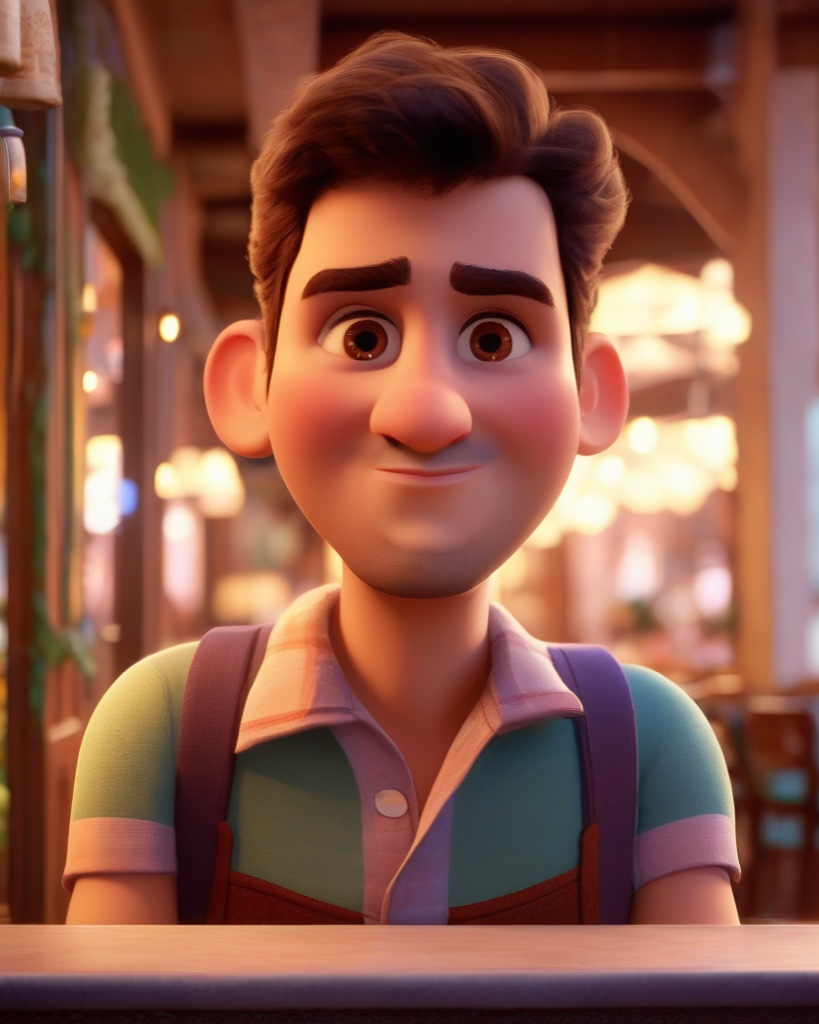
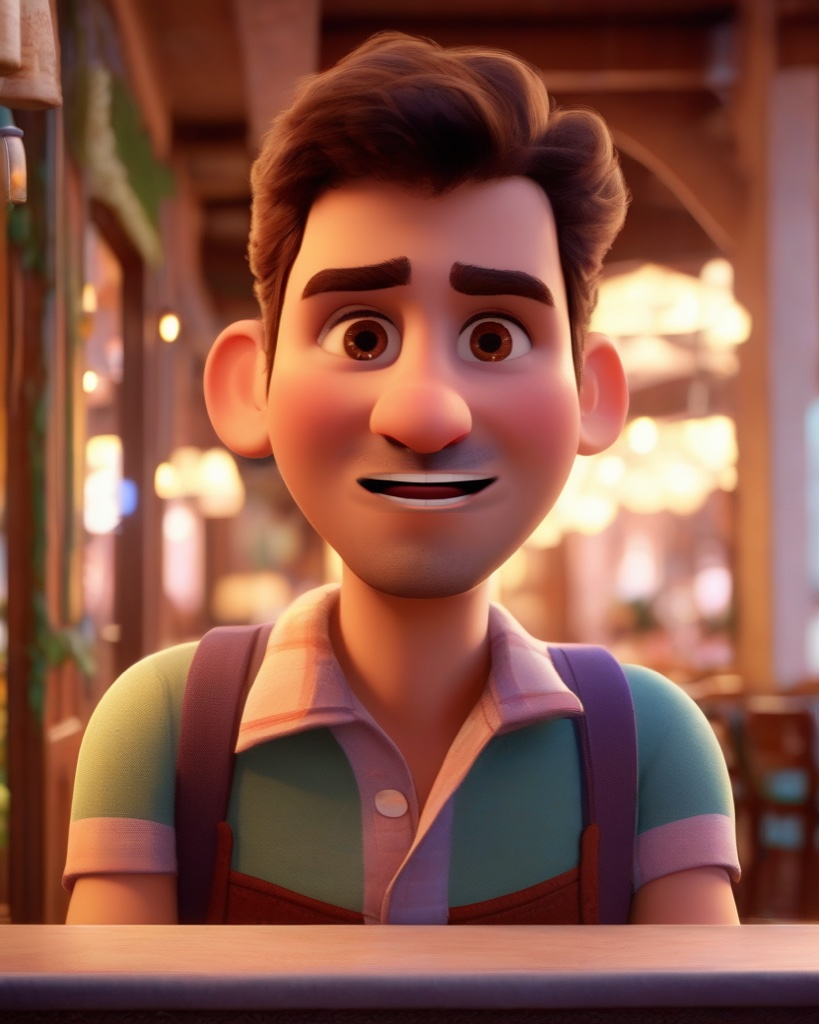
말하는 초상화 입 모양 자연스럽게: 섞지 않고 한 장씩 전환 + 적당히 벌린 입
- 원인(사용자 화면 기록 + 앱과 같은 계산의 프레임 합성으로 확인):
  반투명 교차로 입술이 이중으로 보이고 검은 큰 입이 콧수염 얼룩처럼 깔림, '아~' 큰 입이 말하는 시간의 1/3,
  Host는 입 주변 수염이 다시 그려져 턱에 밝은 사각형
- portrait.js: 닫힘/살짝/벌림을 히스테리시스·70ms 유지로 한 장씩 전환
- 입 이미지 교체: talk=적당히 벌린 입(윗니, 혀 X), talkS=그 입을 세로로 눌러 만든 살짝 벌린 입,
  Host는 달라진 부분만 합성해 수염 유지
- 도구: portrait-generate talkMid, derive-mouth.py(keep/squash), simulate-mouth.py(입 프레임 시트)

Changed region(s): [[0.4274, 0.4375, 0.6105, 0.5625]]

diff --git a/index.html b/index.html
@@ -15,7 +15,7 @@
     <!-- 웹폰트는 렌더링을 막지 않게 불러온다: 폰트 서버가 느리거나 막혀도 앱은 시스템 폰트로 바로 시작 -->
     <link rel="stylesheet" href="https://fonts.googleapis.com/css2?family=Plus+Jakarta+Sans:wght@500;600;700;800&display=swap" media="print" onload="this.media='all'">
     <link rel="stylesheet" href="https://cdn.jsdelivr.net/gh/orioncactus/pretendard@v1.3.9/dist/web/variable/pretendardvariable-dynamic-subset.min.css" media="print" onload="this.media='all'">
-    <link rel="stylesheet" href="css/app.css?v=202611211411">
+    <link rel="stylesheet" href="css/app.css?v=202611212333">
 </head>
 <body>
     <div class="aurora" aria-hidden="true"><i></i><i></i><i></i></div>
@@ -30,41 +30,41 @@
     <nav class="tabbar" aria-label="주요 메뉴"></nav>
 
     <!-- 챕터 데이터: 파일을 추가하면 여기에도 추가한다 (tools/validate-chapters.js가 누락을 검사) -->
-    <script src="js/data/chapters/01-cafe-order.js?v=202611211411"></script>
-    <script src="js/data/chapters/02-self-intro.js?v=202611211411"></script>
-    <script src="js/data/chapters/03-restaurant.js?v=202611211411"></script>
-    <script src="js/data/chapters/04-directions.js?v=202611211411"></script>
-    <script src="js/data/chapters/05-shopping.js?v=202611211411"></script>
-    <script src="js/data/chapters/06-hotel.js?v=202611211411"></script>
-    <script src="js/data/chapters/07-airport.js?v=202611211411"></script>
-    <script src="js/data/chapters/08-small-talk.js?v=202611211411"></script>
-    <script src="js/data/chapters/09-doctor.js?v=202611211411"></script>
-    <script src="js/data/chapters/10-phone-call.js?v=202611211411"></script>
-    <script src="js/data/chapters/11-making-plans.js?v=202611211411"></script>
-    <script src="js/data/chapters/12-job-interview.js?v=202611211411"></script>
-    <script src="js/data/chapters/13-meeting.js?v=202611211411"></script>
-    <script src="js/data/chapters/14-solving-problems.js?v=202611211411"></script>
+    <script src="js/data/chapters/01-cafe-order.js?v=202611212333"></script>
+    <script src="js/data/chapters/02-self-intro.js?v=202611212333"></script>
+    <script src="js/data/chapters/03-restaurant.js?v=202611212333"></script>
+    <script src="js/data/chapters/04-directions.js?v=202611212333"></script>
+    <script src="js/data/chapters/05-shopping.js?v=202611212333"></script>
+    <script src="js/data/chapters/06-hotel.js?v=202611212333"></script>
+    <script src="js/data/chapters/07-airport.js?v=202611212333"></script>
+    <script src="js/data/chapters/08-small-talk.js?v=202611212333"></script>
+    <script src="js/data/chapters/09-doctor.js?v=202611212333"></script>
+    <script src="js/data/chapters/10-phone-call.js?v=202611212333"></script>
+    <script src="js/data/chapters/11-making-plans.js?v=202611212333"></script>
+    <script src="js/data/chapters/12-job-interview.js?v=202611212333"></script>
+    <script src="js/data/chapters/13-meeting.js?v=202611212333"></script>
+    <script src="js/data/chapters/14-solving-problems.js?v=202611212333"></script>
 
-    <script src="js/data/cast.js?v=202611211411"></script>
+    <script src="js/data/cast.js?v=202611212333"></script>
     <!-- 원어민 녹음 목록 (tools/build-audio.py가 생성). 없으면 브라우저 음성으로 대체 -->
-    <script src="js/data/audio-manifest.js?v=202611211411"></script>
-    <script src="js/core/grader.js?v=202611211411"></script>
-    <script src="js/core/srs.js?v=202611211411"></script>
-    <script src="js/core/plan.js?v=202611211411"></script>
-    <script src="js/core/sync.js?v=202611211411"></script>
-    <script src="js/core/store.js?v=202611211411"></script>
-    <script src="js/core/speech.js?v=202611211411"></script>
-    <script src="js/core/lipsync.js?v=202611211411"></script>
-    <script src="js/app/ui.js?v=202611211411"></script>
-    <script src="js/app/actions.js?v=202611211411"></script>
-    <script src="js/app/sync-gist.js?v=202611211411"></script>
-    <script src="assets/avatars/avatars.js?v=202611211411"></script>
-    <script src="assets/portraits/portraits.js?v=202611211411"></script>
-    <script src="js/app/portrait.js?v=202611211411"></script>
-    <script src="js/app/avatar.js?v=202611211411"></script>
-    <script src="js/app/views-home.js?v=202611211411"></script>
-    <script src="js/app/views-learn.js?v=202611211411"></script>
-    <script src="js/app/views-care.js?v=202611211411"></script>
-    <script src="js/app/main.js?v=202611211411"></script>
+    <script src="js/data/audio-manifest.js?v=202611212333"></script>
+    <script src="js/core/grader.js?v=202611212333"></script>
+    <script src="js/core/srs.js?v=202611212333"></script>
+    <script src="js/core/plan.js?v=202611212333"></script>
+    <script src="js/core/sync.js?v=202611212333"></script>
+    <script src="js/core/store.js?v=202611212333"></script>
+    <script src="js/core/speech.js?v=202611212333"></script>
+    <script src="js/core/lipsync.js?v=202611212333"></script>
+    <script src="js/app/ui.js?v=202611212333"></script>
+    <script src="js/app/actions.js?v=202611212333"></script>
+    <script src="js/app/sync-gist.js?v=202611212333"></script>
+    <script src="assets/avatars/avatars.js?v=202611212333"></script>
+    <script src="assets/portraits/portraits.js?v=202611212333"></script>
+    <script src="js/app/portrait.js?v=202611212333"></script>
+    <script src="js/app/avatar.js?v=202611212333"></script>
+    <script src="js/app/views-home.js?v=202611212333"></script>
+    <script src="js/app/views-learn.js?v=202611212333"></script>
+    <script src="js/app/views-care.js?v=202611212333"></script>
+    <script src="js/app/main.js?v=202611212333"></script>
 </body>
 </html>

diff --git a/js/app/portrait.js b/js/app/portrait.js
@@ -2,6 +2,7 @@
  * 2D '말하는 초상화' — 같은 구도의 이미지 3~5장을 겹쳐, 녹음에 맞춰 입·눈만 바꾸고 고개를 움직인다.
  *   base  : 입 다문 기본 (필수)      talk : 입 벌림 '아' (필수)      blink : 눈 감음 (필수)
  *   talkS : 살짝 벌린 입 (선택 — 있으면 작은 소리는 talkS, 큰 소리는 talk로 2단계)
+ *   ※ talk는 '적당히' 벌린 입(윗니, 혀 X). 크게 벌린 '아~' 입은 소리 지르는 것처럼 보인다
  *   talkO : 입 오므림 '우/오' (선택) smile: 활짝 웃음 (선택, 정답 반응)
  * 입·눈 영역은 마스크로만 드러낸다 → 생성 AI가 변형 이미지의 다른 부분을 조금 다르게 그려도 티가 안 난다.
  * 영역 좌표(mouth/eyes)는 이미지 기준 비율(0~1). tools/portrait-detect 로 얼굴 인식해 자동으로 채운다.
@@ -55,6 +56,21 @@
 
         function setOpacity(el, v) { if (el) el.style.opacity = v.toFixed(3); }
 
+        // 입 상태: closed / talkS(살짝) / talk(벌림). 경계에 여유(히스테리시스)를 두고, 최소 유지 시간 동안은 바꾸지 않는다
+        var MOUTH_HOLD_MS = 70;
+        var mouthState = "closed", mouthSince = 0;
+        function pickMouth(open, now) {
+            var hasS = !!els.talkS;
+            var next = mouthState;
+            var up = hasS ? { closed: 0.14, talkS: 0.55 } : { closed: 0.3 };
+            var down = hasS ? { talkS: 0.09, talk: 0.45 } : { talk: 0.22 };
+            if (mouthState === "closed" && open > up.closed) next = hasS ? (open > up.talkS ? "talk" : "talkS") : "talk";
+            else if (mouthState === "talkS") next = open > up.talkS ? "talk" : open < down.talkS ? "closed" : "talkS";
+            else if (mouthState === "talk") next = open < (hasS ? down.talk : down.talk) ? (hasS && open > down.talkS ? "talkS" : "closed") : "talk";
+            if (next !== mouthState && now - mouthSince >= MOUTH_HOLD_MS) { mouthState = next; mouthSince = now; }
+            return mouthState;
+        }
+
         function loop() {
             raf = requestAnimationFrame(loop);
             var now = performance.now(), dt = Math.min(0.1, (now - last) / 1000);
@@ -77,14 +93,10 @@
                 mouth[k] += (target[k] - mouth[k]) * Math.min(1, rate * dt);
             });
             // 이미지 교차는 0~1 불투명도: 반쯤 벌린 입은 두 이미지가 섞여 중간 모양처럼 보인다
-            if (els.talkS) {
-                // 2단계: 살짝 벌린 입이 먼저 나타나고, 크게 벌릴 때 큰 입으로 넘어간다
-                var sm = LS().smoothstep;
-                setOpacity(els.talkS, sm(0.05, 0.35, mouth.open));
-                setOpacity(els.talk, sm(0.45, 0.85, mouth.open));
-            } else {
-                setOpacity(els.talk, Math.min(1, mouth.open * 1.4));
-            }
+            // 입 모양은 섞지 않고 한 장씩 바꾼다(만화 립싱크 방식). 반투명으로 섞으면 입술이 이중으로 보인다
+            var want = pickMouth(mouth.open, now);
+            setOpacity(els.talkS, want === "talkS" ? 1 : 0);
+            setOpacity(els.talk, want === "talk" ? 1 : 0);
             setOpacity(els.talkO, Math.min(1, mouth.round * 1.4));
             talkLevel += ((mouth.open + mouth.round) - talkLevel) * Math.min(1, 10 * dt);
 

diff --git a/.claude/skills/portrait-assets/scripts/simulate-mouth.py b/.claude/skills/portrait-assets/scripts/simulate-mouth.py
@@ -1,0 +1,60 @@
+#!/usr/bin/env python3
+"""
+말하는 초상화 입 움직임을 앱과 같은 계산으로 재현해 프레임 시트로 그린다(실기기 없이 '자연스러운지' 눈으로 확인).
+js/core/lipsync.js(분석·입 모양) + js/app/portrait.js(평활화·이산 전환·유지 시간)의 수치를 그대로 옮겼다 — 둘을 바꾸면 여기도 바꾼다.
+
+사용: python simulate-mouth.py <base.jpg> <talkS.jpg> <talk.jpg> <audio.m4a> <out.png> [--box x0,y0,x1,y1 비율]
+"""
+import subprocess, sys, tempfile, wave
+import numpy as np
+from PIL import Image
+
+def analyze(path):
+    tmp = tempfile.mktemp(suffix=".wav")
+    subprocess.run(["ffmpeg", "-loglevel", "error", "-y", "-i", path, "-ac", "1", "-ar", "24000", tmp], check=True)
+    w = wave.open(tmp); sr = w.getframerate()
+    x = np.frombuffer(w.readframes(w.getnframes()), np.int16).astype(np.float32) / 32768
+    hop = sr // 60; win = hop * 2; n = len(x) // hop
+    rms = np.array([np.sqrt(np.mean(x[f*hop:f*hop+win] ** 2)) for f in range(n)])
+    zcr = np.array([np.mean(np.diff(np.sign(x[f*hop:f*hop+win])) != 0) for f in range(n)])
+    level = np.minimum(1.2, rms / np.sort(rms)[int(n * 0.95)])
+    return level, zcr
+
+def ss(a, b, v): t = np.clip((v - a) / (b - a), 0, 1); return t * t * (3 - 2 * t)
+
+def mouth_open(level, zcr):
+    o = ss(0.18, 0.75, level); ee = o * ss(0.055, 0.095, zcr); ou = o * (1 - ss(0.022, 0.034, zcr)) * 0.9
+    aa = np.maximum(0, o - np.maximum(ee, ou) * 0.8); tot = aa + ee * 1.35 + ou * 1.5; cap = o * 0.9
+    sc = np.where(tot > cap, cap / np.maximum(tot, 1e-6), 1)
+    return (aa + ee * 1.35 + ou * 1.5) * sc
+
+def states(openv):
+    m, st, since, out = 0.0, "closed", -1e9, []
+    up = {"closed": 0.14, "talkS": 0.55}; down = {"talkS": 0.09, "talk": 0.45}
+    for i, t in enumerate(openv):
+        m += (t - m) * min(1, (30 if t > m else 16) / 60); now = i * 1000 / 60
+        nxt = st
+        if st == "closed" and m > up["closed"]: nxt = "talk" if m > up["talkS"] else "talkS"
+        elif st == "talkS": nxt = "talk" if m > up["talkS"] else ("closed" if m < down["talkS"] else "talkS")
+        elif st == "talk" and m < down["talk"]: nxt = "talkS" if m > down["talkS"] else "closed"
+        if nxt != st and now - since >= 70: st, since = nxt, now
+        out.append(st)
+    return out
+
+def main():
+    base, tS, tB, audio, out = sys.argv[1:6]
+    box = [0.33, 0.43, 0.65, 0.6]
+    if "--box" in sys.argv: box = [float(v) for v in sys.argv[sys.argv.index("--box") + 1].split(",")]
+    imgs = {k: Image.open(p).convert("RGB") for k, p in (("closed", base), ("talkS", tS), ("talk", tB))}
+    W, H = imgs["closed"].size; b = (int(W*box[0]), int(H*box[1]), int(W*box[2]), int(H*box[3]))
+    st = states(mouth_open(*analyze(audio)))
+    frames = [imgs[s].crop(b).resize((160, int(160 * (b[3]-b[1]) / (b[2]-b[0])))) for s in st[::4]]  # 15fps
+    cols = 12; fw, fh = frames[0].size; rows = (len(frames) + cols - 1) // cols
+    sheet = Image.new("RGB", (cols * fw, rows * fh), "white")
+    for k, f in enumerate(frames): sheet.paste(f, ((k % cols) * fw, (k // cols) * fh))
+    sheet.save(out)
+    from collections import Counter; c = Counter(st)
+    print({k: round(v / len(st), 2) for k, v in c.items()}, "switches/s:", round(sum(1 for i in range(1, len(st)) if st[i] != st[i-1]) / (len(st) / 60), 1))
+
+if __name__ == "__main__":
+    main()

diff --git a/tools/portrait-generate.py b/tools/portrait-generate.py
@@ -83,6 +83,10 @@ VARIANTS = {
     "talk": ("close-up of a Pixar-style 3D cartoon face speaking calmly, lips slightly parted mid-sentence, small natural mouth opening, "
              "hint of upper teeth, relaxed friendly expression, same skin tone and lip color",
              "closed mouth, wide open mouth, screaming, shouting, yelling, big teeth, tongue out, lipstick, deformed teeth, extra mouth"),
+    # 2단계 입의 큰 쪽(권장): 적당히 벌린 입 — 윗니만, 혀 X. talkBig처럼 크게 벌리면 말할 때 소리 지르는 것처럼 보인다
+    "talkMid": ("close-up of a Pixar-style 3D cartoon face speaking, mouth moderately open mid-sentence as if saying eh, "
+                "upper teeth visible, no tongue, natural relaxed lips, same skin tone and lip color",
+                "closed mouth, wide open mouth, screaming, yawning, tongue, lower teeth, deformed teeth, extra mouth"),
     # 2단계 입의 큰 쪽 — 크게 잡은 영역 + '아' 발음 (talk_5 방식이 자연스러웠다)
     "talkBig": ("close-up of a Pixar-style 3D cartoon face talking, mouth open mid-word saying ah, upper teeth and tongue visible, "
                 "same skin tone and lip color", "closed mouth, closed lips, smile, smirk, screaming, deformed teeth, extra mouth"),
@@ -97,6 +101,9 @@ def regions_for(name, mouth, eyes):
     if name == "talk":
         x, y, rx, ry = mouth
         return [(x, y - ry * 0.2, rx * 0.6, ry * 0.75)]       # 크게 잡으면 소리 지르는 입이 된다
+    if name == "talkMid":
+        x, y, rx, ry = mouth
+        return [(x, y - ry * 0.18, rx * 0.66, ry * 0.85)]
     if name == "talkBig":
         x, y, rx, ry = mouth
         return [(x, y - ry * 0.15, rx * 0.75, ry * 0.95)]
@@ -131,7 +138,7 @@ def cmd_variants(a):
     crop = base.crop(box)
     scale = CROP_PX / crop.width
     crop_big = crop.resize((CROP_PX, int(crop.height * scale)), Image.LANCZOS)
-    names = a.only or ["talk", "talkBig"]      # 감은 눈은 'blink' 하위 명령(직접 그리기)으로
+    names = a.only or ["talk", "talkMid"]      # 감은 눈은 'blink' 하위 명령(직접 그리기)으로
     for name in names:
         prompt, neg = VARIANTS[name]
         ell = regions_for(name, mouth, eyes)
@@ -207,7 +214,7 @@ def main():
     v.add_argument("--mouth", required=True); v.add_argument("--eyes", required=True)
     v.add_argument("--seeds", type=int, nargs="+", default=[5, 6])
     v.add_argument("--strength", type=float, default=0.99)
-    v.add_argument("--only", nargs="+", choices=["talk", "talkBig", "blink"])
+    v.add_argument("--only", nargs="+", choices=["talk", "talkMid", "talkBig", "blink"])
     k = sub.add_parser("blink")
     k.add_argument("id"); k.add_argument("--base", required=True)
     k.add_argument("--eyeL", required=True); k.add_argument("--eyeR", required=True)

diff --git a/.claude/skills/portrait-assets/scripts/derive-mouth.py b/.claude/skills/portrait-assets/scripts/derive-mouth.py
@@ -1,0 +1,63 @@
+#!/usr/bin/env python3
+"""
+입 변형 이미지 후처리 (생성 모델 결과를 기본 이미지에 깔끔하게 붙이기)
+
+  keep  <base> <new> <out> [임계값=38]  : new에서 '크게 달라진 덩어리'(벌린 입속·이)만 가져오고 나머지는 base 그대로.
+                                          수염·피부 질감이 다시 그려져 생기는 얼룩(회색 사각형)을 없앤다 — host-m에서 실제로 생겼다
+  squash <base> <open> <out> [비율=0.45] : 벌린 입을 세로로 눌러 '살짝 벌린 입'을 만든다(윗입술 고정).
+                                          살짝 벌린 입을 따로 생성하면 같은 사람의 입처럼 안 보이거나 거의 안 열린다
+"""
+import sys
+import cv2
+import numpy as np
+from PIL import Image
+
+
+def load(p):
+    return np.asarray(Image.open(p).convert("RGB")).astype(np.float32)
+
+
+def mouth_blob(base, new, thr):
+    diff = (np.abs(new - base).mean(2) > thr).astype(np.uint8) * 255
+    diff = cv2.morphologyEx(diff, cv2.MORPH_OPEN, np.ones((3, 3), np.uint8))
+    n, lab, st, _ = cv2.connectedComponentsWithStats(diff)
+    if n <= 1:
+        raise SystemExit("달라진 부분을 못 찾음 — 임계값을 낮추거나 입이 실제로 열렸는지 확인")
+    k = 1 + np.argmax(st[1:, cv2.CC_STAT_AREA])
+    return np.where(lab == k, 255, 0).astype(np.uint8), st[k, :4]
+
+
+def save(arr, p):
+    Image.fromarray(np.clip(arr, 0, 255).astype(np.uint8)).save(p)
+
+
+def keep(base_p, new_p, out_p, thr=38.0):
+    base, new = load(base_p), load(new_p)
+    m, _ = mouth_blob(base, new, thr)
+    m = cv2.GaussianBlur(cv2.dilate(m, np.ones((9, 9), np.uint8)), (0, 0), 4).astype(np.float32)[..., None] / 255
+    save(base * (1 - m) + new * m, out_p)
+
+
+def squash(base_p, open_p, out_p, ratio=0.45):
+    base, opn = load(base_p), load(open_p)
+    _, (x, y, w, h) = mouth_blob(base, opn, 38)
+    pad = 10
+    x0, y0, x1, y1 = x - pad, y - pad, x + w + pad, y + h + pad
+    nh = max(4, int((y1 - y0) * ratio))
+    canvas = base.copy()
+    canvas[y0:y0 + nh, x0:x1] = cv2.resize(opn[y0:y1, x0:x1], (x1 - x0, nh), interpolation=cv2.INTER_AREA)
+    m = np.zeros(base.shape[:2], np.float32)
+    cv2.ellipse(m, ((x0 + x1) // 2, y0 + nh // 2), ((x1 - x0) // 2, max(2, nh // 2)), 0, 0, 360, 1.0, -1)
+    m = cv2.GaussianBlur(m, (0, 0), 3)[..., None]
+    save(base * (1 - m) + canvas * m, out_p)
+
+
+if __name__ == "__main__":
+    cmd, args = sys.argv[1], sys.argv[2:]
+    if cmd == "keep":
+        keep(args[0], args[1], args[2], float(args[3]) if len(args) > 3 else 38.0)
+    elif cmd == "squash":
+        squash(args[0], args[1], args[2], float(args[3]) if len(args) > 3 else 0.45)
+    else:
+        raise SystemExit(__doc__)
+    print("saved", args[2])

diff --git a/intend.md b/intend.md
@@ -57,6 +57,7 @@
 
 | 날짜 | 결정 | 대안 | 선택 이유 | 상태 |
 |---|---|---|---|---|
+| 2026-11-22 | 초상화 입은 이미지를 섞지 않고 닫힘/살짝/적당히 3장을 한 장씩 전환, '아~' 큰 입은 쓰지 않음 | 투명도 교차(2단계 블렌드) | 사용자 '입모양이 자연스럽지 않아' + 화면 기록: 반투명 큰 입이 콧수염 얼룩처럼 보이고 소리 지르는 입이 1/3. 앱과 같은 계산으로 프레임을 합성해 원인 확인 | ✅ 유효 |
 | 2026-11-21 | 초상화 이미지는 맥에서 SDXL로 직접 생성: 기본은 생성, 입은 인페인팅(살짝/크게 2단계), 감은 눈은 직접 그림 | 사용자가 ChatGPT 등으로 생성 | 사용자가 '같이 진행' 요청. SDXL은 감은 눈을 못 그려(4/4 실패) 절차적으로 그림. 입은 한 장이면 너무 크거나 작아 2단계로 | ✅ 유효 |
 | 2026-11-21 | 대화 상대를 '2D 말하는 초상화'(같은 구도 이미지 3장의 입·눈 영역 교차 + 고개 움직임)로, 이미지가 없는 인물만 3D | 3D 강화(B), 대사별 AI 영상(A) | 사용자가 참고 영상(픽사풍 실사 느낌 + 상황 배경)과 비슷하게 원함 → C 선택. 무료 3D 모델로는 화풍·의상·배경을 맞출 수 없다. 대가: 이미지는 사용자가 생성 AI로 직접 만들어야 하고, 고개 각도는 크게 못 바꾼다 | ✅ 유효 |
 | 2026-11-21 | 립싱크는 재생 소리를 Web Audio로 돌리지 않고 같은 파일을 따로 분석(RMS·ZCR)해 재생 시각에 맞춘다. 오디오 요소는 하나를 재사용 | AnalyserNode 실시간 분석, 대사마다 new Audio | 폰에서 "그림만 나온다" 보고 → 원인은 iPhone 자동재생 차단(새 요소는 탭 없이 못 울림)과 잠긴 AudioContext의 무음 위험 | ✅ 유효 |
